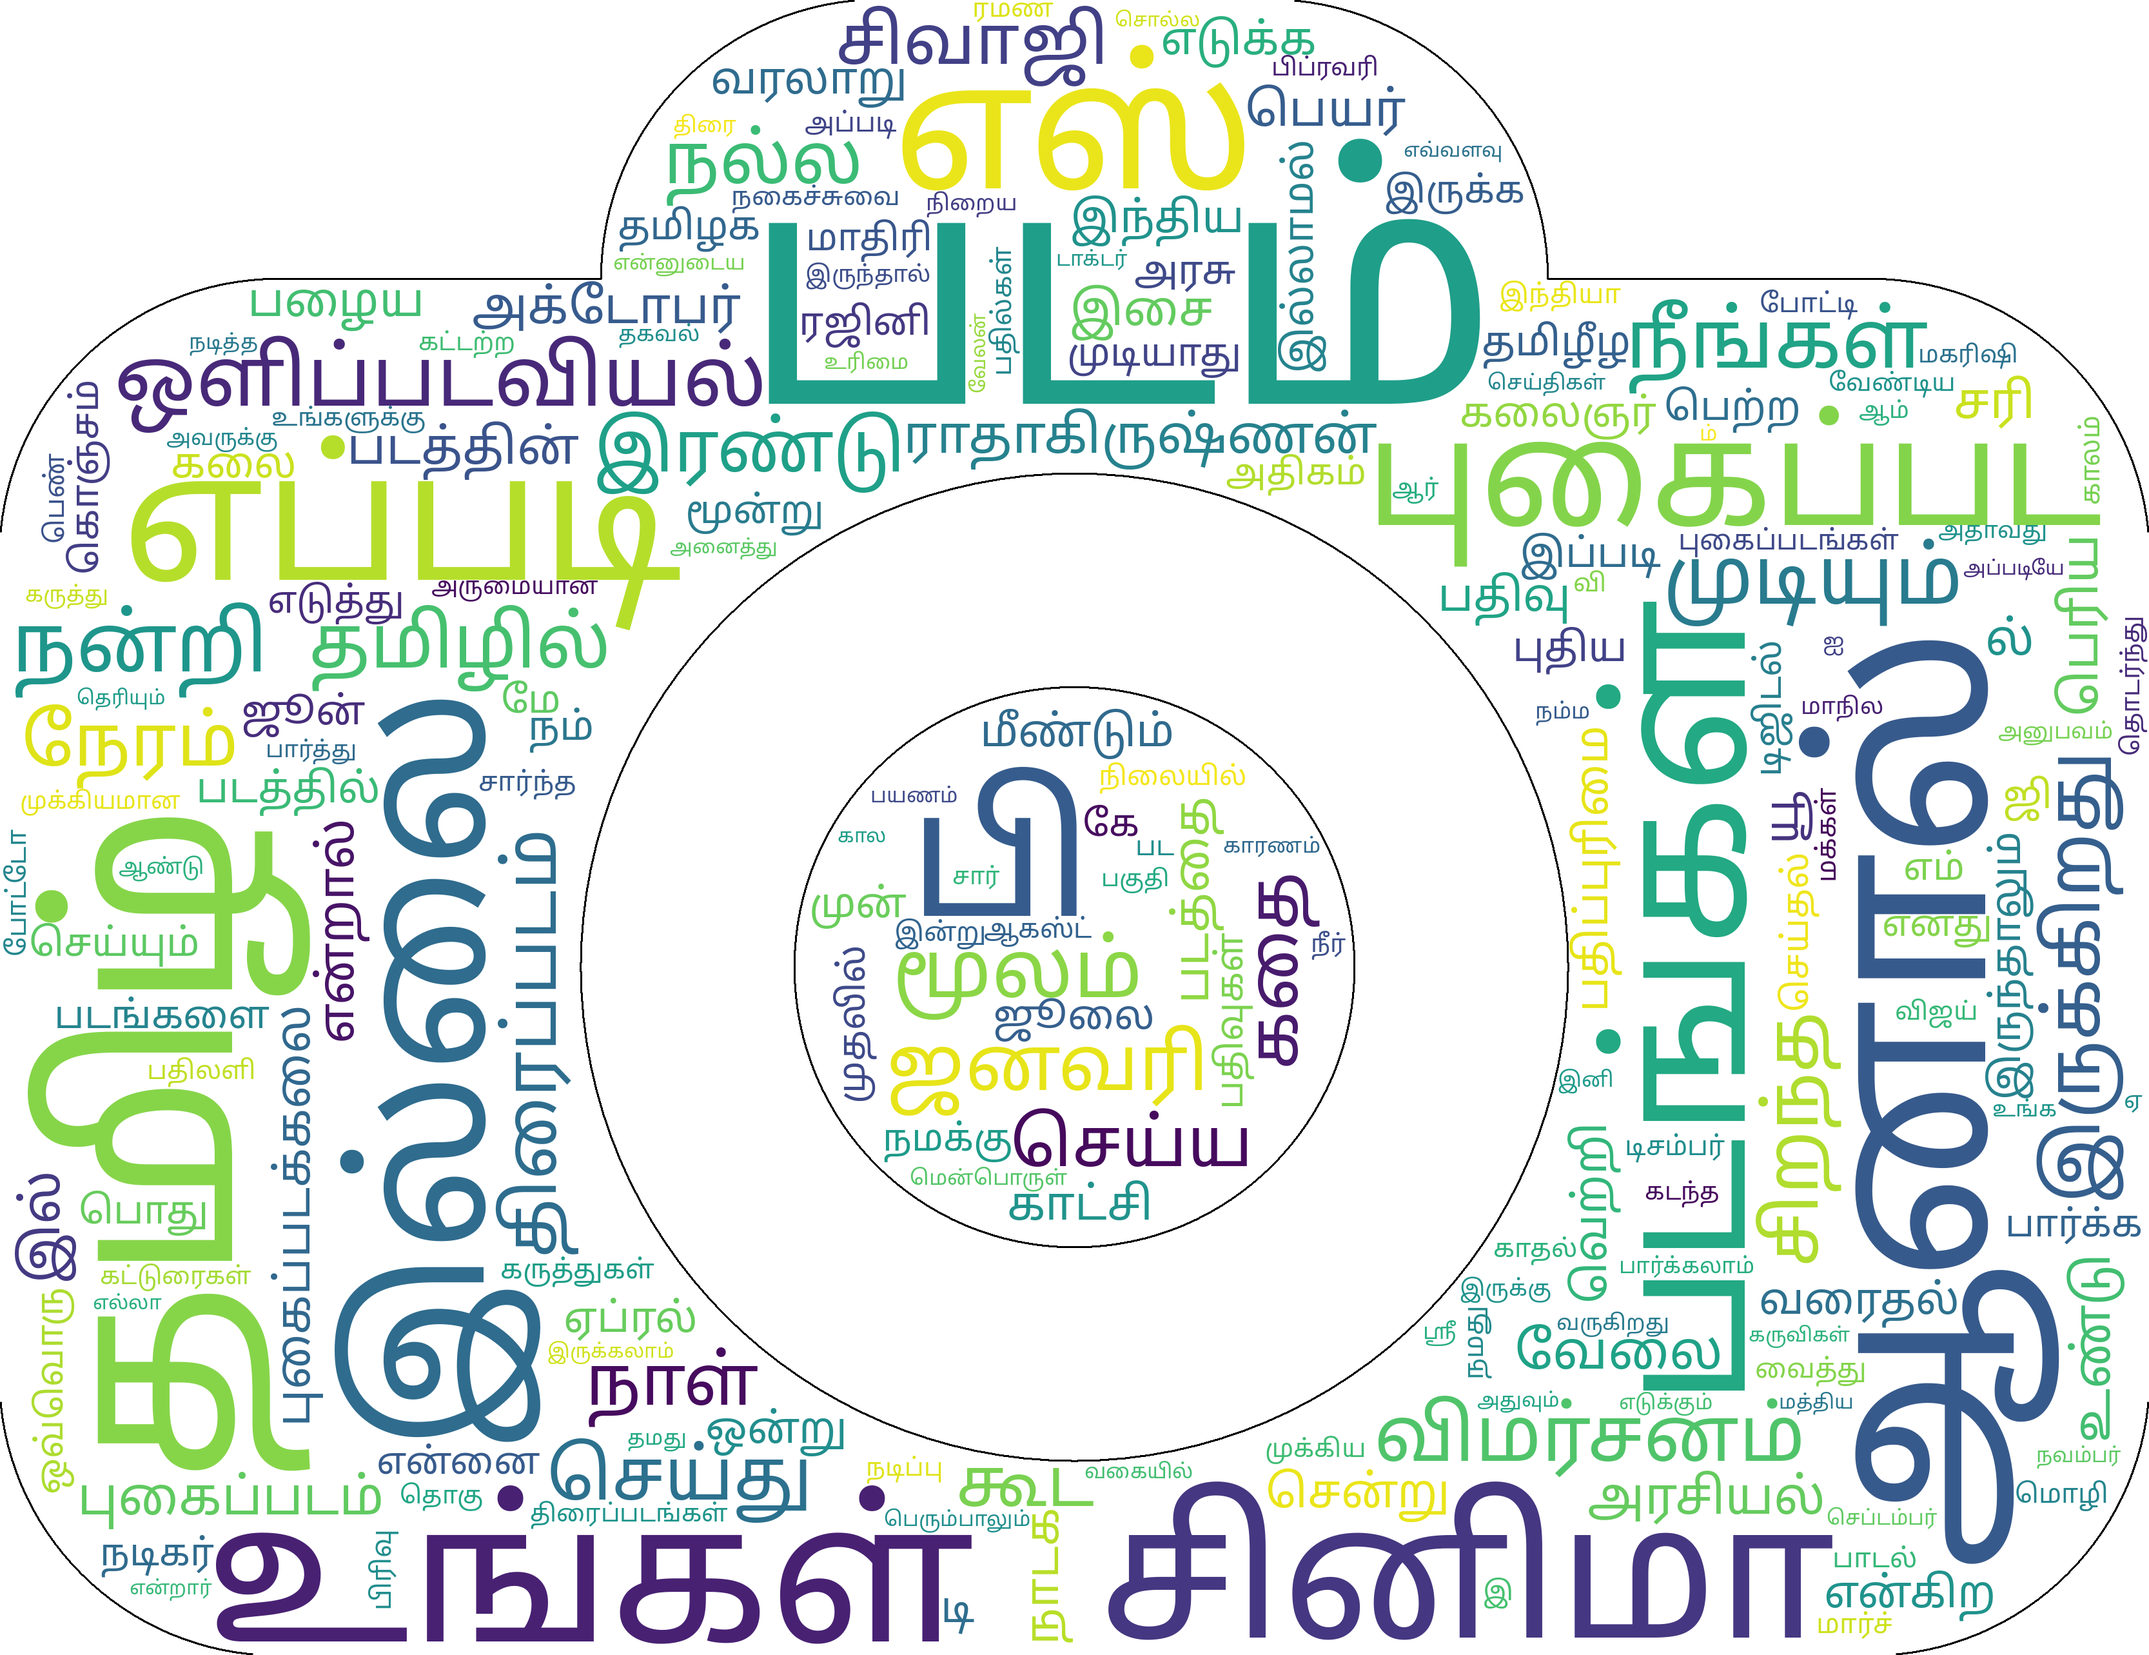
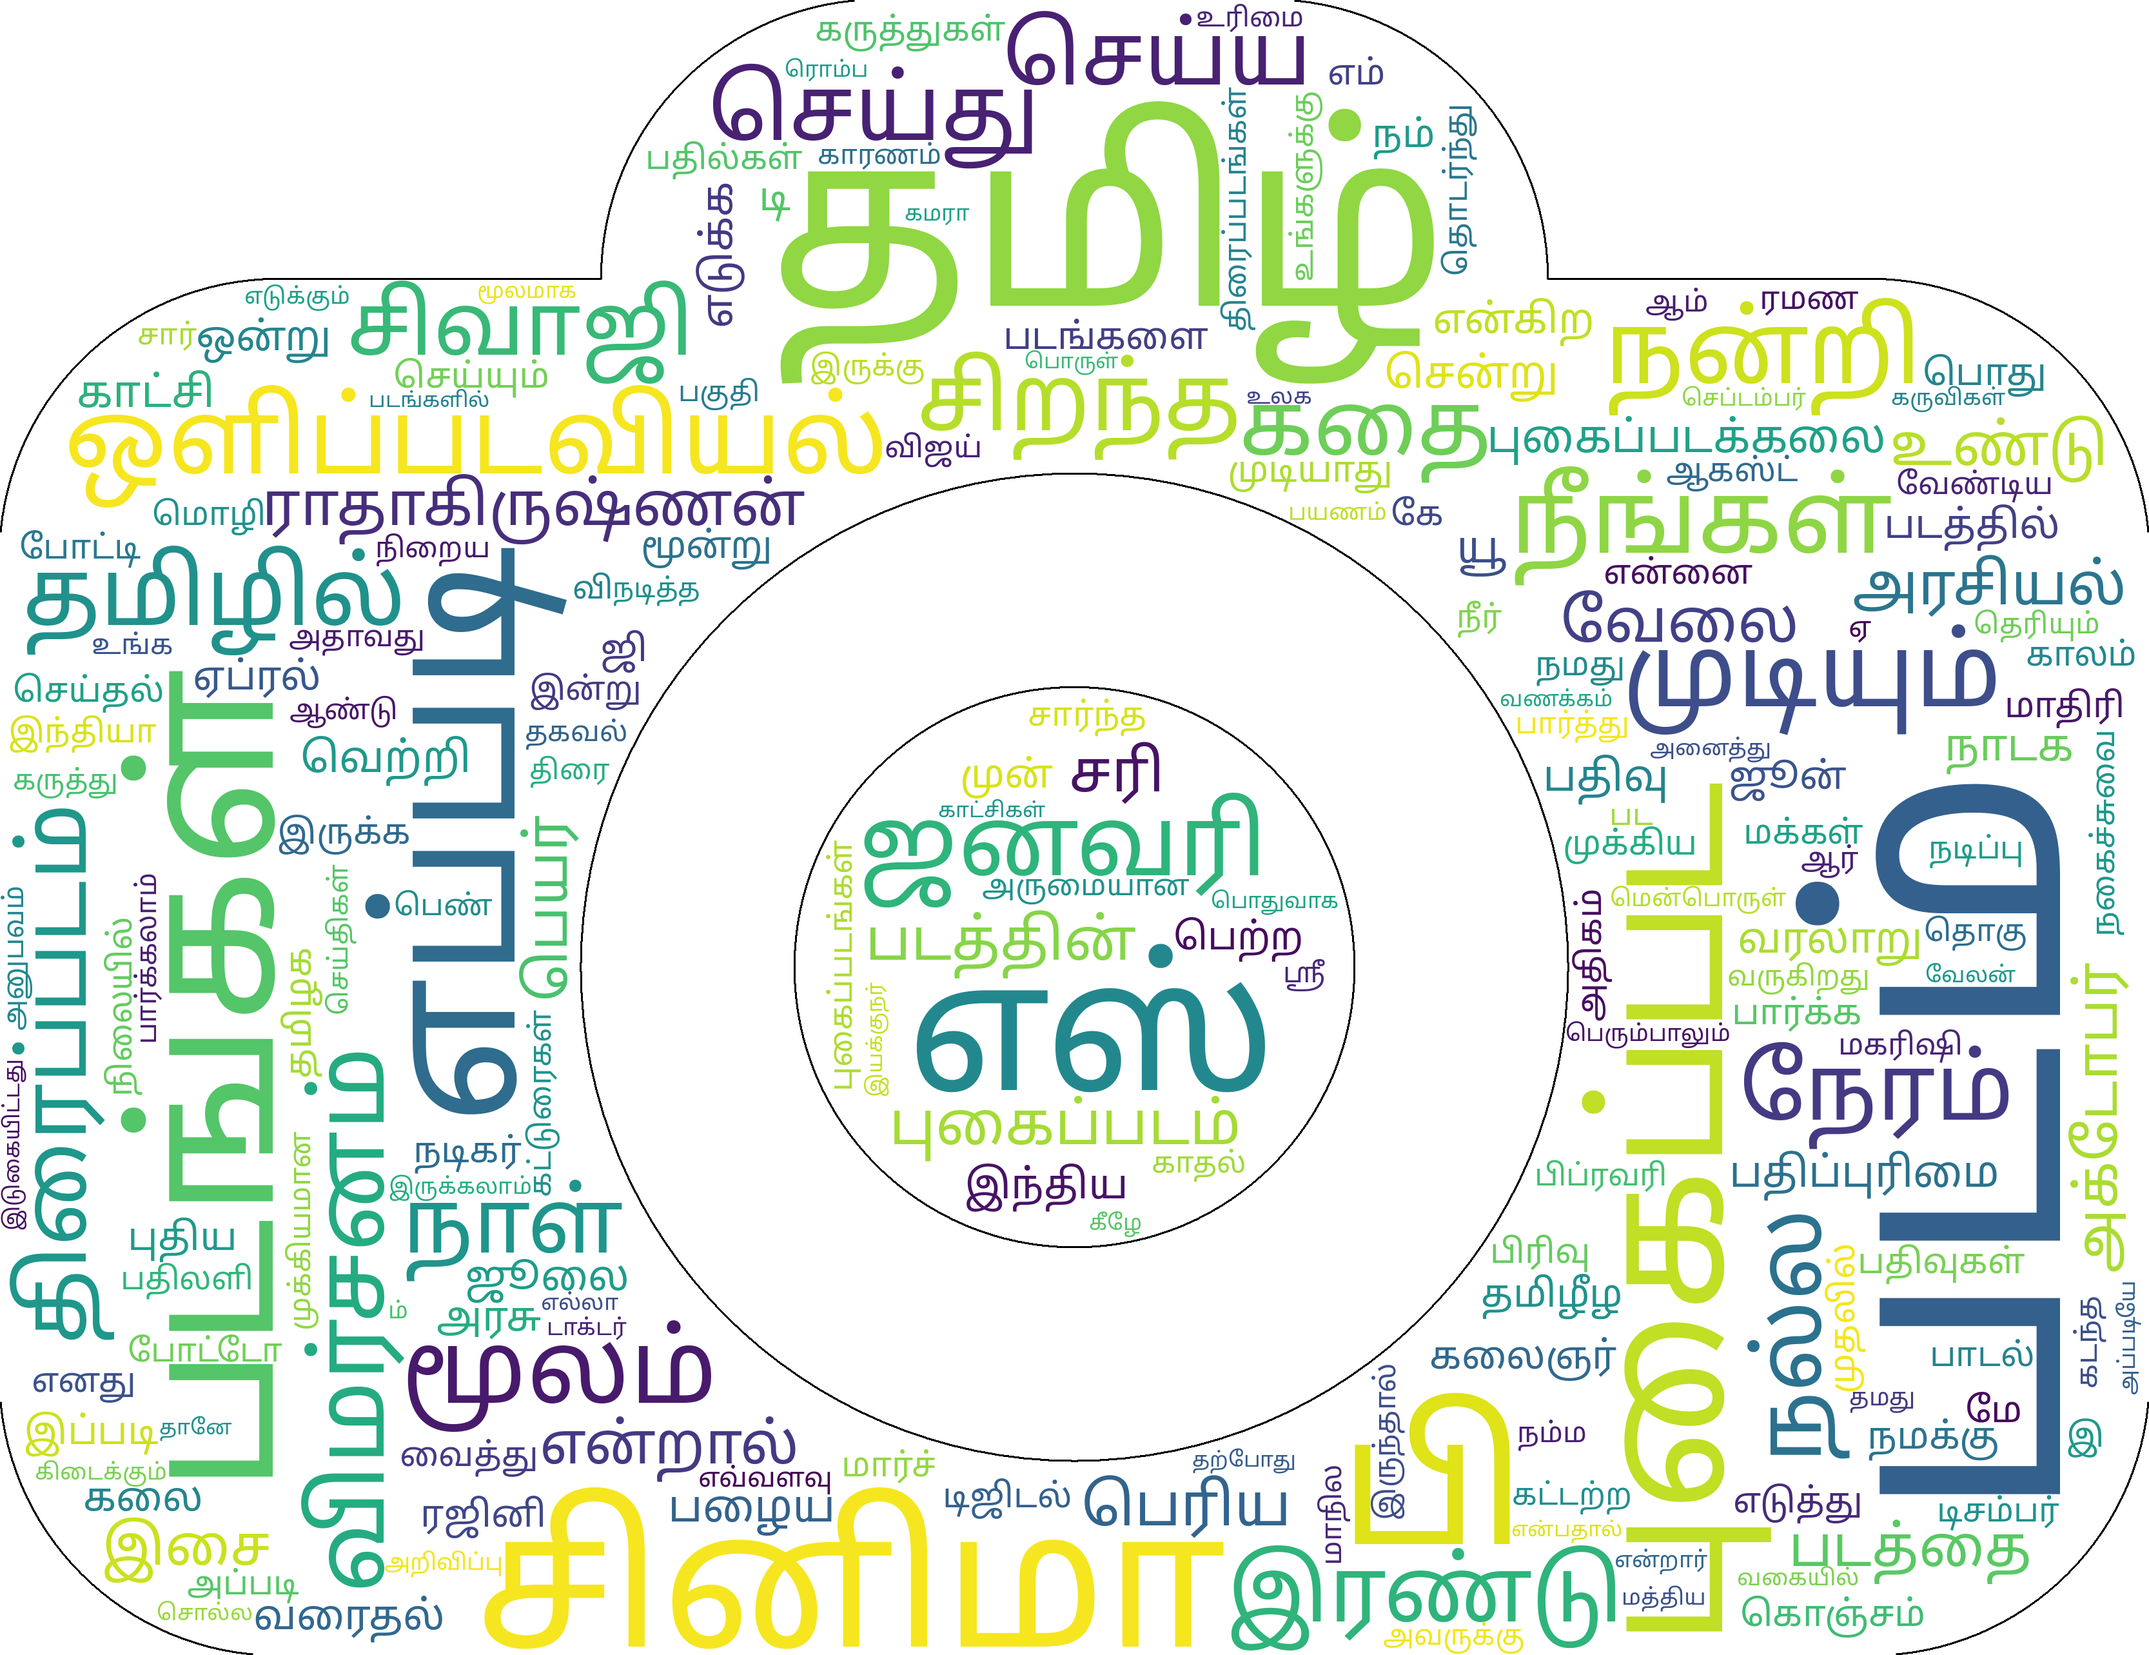
new nuage langtam + analyse langtam

diff --git a/pages/analyse.html b/pages/analyse.html
@@ -31,8 +31,12 @@
 
 				<p>Pour ce projet, chaque étudiant a sa propre langue qu'il a choisie. Nous avons cherché au moins cinquante URL valides pour chaque langue et les avions affichés dans un tableau. Pour la sélection des URL, nous avons cherché le mot et pris ceux qui apparaissaient directement. Puis, nous avions cherché le mot au singulier dans les différents domaines dans lequel il pourrait apparaitre afin d'observer ses différents usages et contextes.</p>
 
+</br>
+</br>
+
 
 	<h3>Analyse :</h3>
+
 
 	<h4>Pour le français :</h4>
 	<p>Au début de notre projet, nous avons eu comme hypothèse que nous aurons probablement les mêmes significations et le même mot identique pour les trois langues. Nous avons pu faire des constats en français.</p>
@@ -41,13 +45,155 @@
 
 <p>Lorsque nous avons fait les recherches du mot “image” sur le web, nous tombions davantage sur le sens littéral. Nous supposons que c’est parce qu'il est davantage  fréquent et que son utilisation est probablement la plus utilisée, notamment avec Google. Nous avons également fait des recherches sur d’autres moteurs de recherche comme Qwant et Yahoo afin de voir d’autres sens du mot image. Il fallait être précis pour rechercher les autres sens possibles du mot ciblé. Donc, par exemple, on a recherché image avec x domaine possible.</p>
 
+
+en tamoul, nous observons,.....
+
+Fr : nous affirmons notre hypothèse de départ pour le français. En effet, le mot image a des sens différents. Lors de nos recherches d’URLs, nous avons vu que le mot image avait principalement un premier sens littéral. Il désigne une représentation d’une chose ou d’une personne. D’après le dictionnaire en ligne Le Robert, il viendrait du latin “imago” qui signifierait une représentation visuelle. Le mot “image” est polysémique mais garde ses sens proches du premier sens littéral. En effet, ses autres sens se retrouvent par exemple, dans le droit à l’image, en psychologie avec l’image mentale, en sociologie avec l’image que renvoie une personne, dans le domaine de la photographie, des mathématiques, etc… Mais le mot va conserver son premier sens littéral : la représentation de quelque chose.
+</br>
+</br>
+Lorsque nous avons fait les recherches du mot “image” sur le web, nous tombions davantage sur le sens littéral. Nous supposons que c’est parce qu'il est davantage  fréquent et que son utilisation est probablement la plus utilisée, notamment avec Google. Nous avons également fait des recherches sur d’autres moteurs de recherche comme Qwant et Yahoo afin de voir d’autres sens du mot image. Il fallait être précis pour rechercher les autres sens possibles du mot ciblé. Donc, par exemple, on a recherché image avec x domaine possible.
+</br>
+</br>
+Avec le nuage de mot généré, il nous permet de voir les contextes où le mot “image” apparaît le plus souvent. Aussi appelé wordcloud en anglais, il visualise les mots qui gravitent autour du mot et nous permet d'interpréter ses contextes. Grâce à cet outil, il met en avant les mots les plus fréquents ou non de par leurs tailles et leurs positions.
+</br>
+</br>
+
 <p>Avec le nuage de mot généré, il nous permet de voir les contextes où le mot “image” apparaît le plus souvent. Aussi appelé wordcloud en anglais, il visualise les mots qui gravitent autour du mot et nous permet d'interpréter ses contextes. Grâce à cet outil, il met en avant les mots les plus fréquents ou non de par leurs tailles et leurs positions.
 
+
 Dans le nuage de mot français, on observe davantage que les contextes concernés sont ceux du domaine informatique. Les mots les plus mis en avant sont : “numériques”, “fichiers”, “générées”, par exemple. On peut supposer qu’aujourd’hui le domaine de l’IA est davantage au centre des recherches au quotidien, puisqu’on a de nombreux mots-clés qui lui sont associés. A la recherche du mot image, on suppose que ses sens sont plus “élargit” par rapport à l’actualité d’aujourd'hui.
-
+</br>
+</br>
 Ensuite, le domaine de la photographie ressort le plus également avec ses nombreux mots-clés qui lui sont associés.
-
+</br>
 On analyse que le mot ciblé est polysémique de par la variété de ses domaines. A la base on part d’une définition plutôt proche du sens littéral jusqu’à différents sens beaucoup plus abstraits.
+
+</br>
+</br>
+Le mot image est un nom qui peut avoir un complément de nom. Autour de lui, on trouve des noms qui le complètent, des adjectifs (beaucoup de qualificatifs), et parfois même des mots en anglais.<p>
+</br>
+</br>
+
+	<h4>Pour le Tamoul : </h4>
+	<p>
+Où et comment trouver "படம்" ?
+</br>
+Dans un premier temps, j'ai contacté des amis dont le tamoul est la langue maternelle : une amie parlant le tamoul sri lankais et des amis parlant le tamoul indien. Ils m'ont aidé à confirmer le sens de "படம்" c'est à dire image en tamoul.
+
+</br>
+</br>
+Je partais avec l'idée "படம்" avait deux sens :
+<ol>
+<li> une image peu importe le média </li>
+<li> une photo </li>
+</ol>
+
+</br>
+J'ai commencé mes rechers de manière classique, j'ai écrit "படம்" dans le moteur de recherche de firefox. Je suis tombée sur 3 types de contenus :  des blogs sur la photographie ; des blogs sur le cinéma.
+J'ai donc ainsi découvert que "படம்" avait un troisème sens : film.
+Je l'ai confirmé auprès de mes amis tamoulophone.
+J'utilisais crtl + f pour vérifier que le mot était bien présent sur le site.
+Au final, j'ai rencontré "படம்" dans tous ces sens :
+
+<ol>
+<li>une image</li>
+<li>une photo</li>
+<li>un film</li>
+<li>un tableau</li>
+</ol>
+Le type de site que j'ai ciblé était princiapalement les blogs.
+
+</br>
+</br>
+<h4>Comment est employé le mot image en tamoul ?</h4>
+</br>
+Dans le tableau :
+</br>
+Si l'on s'appuie et focalise sur notre tableau, on peut constater que le mot tamoul a en général peu d'occurence dans les sites pour le nombre total mot. On peut expliquer cela par le fait que le concept d'image en tamoul prend vie surtout dans un contexte. Pour que le mot image est le sens véhiculé, le thème doit être clairement défini. Il existe deux cas, le premier est celui où les sites où l'on se concentre sur tout ce qui englobe l'image et le second où le mot permet de parler d'un autre concept.
+
+</br>
+</br>
+Dans le nuage de mot :
+</br>
+Rappelons le, image est un mot très polysémique en tamoul, on s'attend donc à avoir probablement un nuage très variés. Notre nuage nous donne une information très importante sur l'emploi du mot.
+
+Le mot le plus grand "படம்" mise à part lui, on peut également relevé un autre quelque peu surprenant "கமிழ்" (tamil), par ailleurs on lit aussi  "தமிழக" (tamil nadu), "இந்திய" (indien), ce qui laisse penser que pour les locuteurs du tamoul, image est associé à leur culture ou un élément de leur culture.
+
+Un autre mot central de notre curpus est "கினிமா" (cinéma) et si l'on observe les autres mots qui ressort mais un peu moins fréquemment on remarque quelque chose d'interessant :ils font parti du champ lexicale de cinéma. On peut citer; "பதிப்புரிமை" (droit d’auteur), "நாடக" (dramatique (registre)), "சிறந்த" (le meilleur) , "புதிய" (nouveau), "காட்சி" (spectacle/scène), "பழைய" (ancien). Nous avons des adjectifs permettant de décrire le mot "படம்", ou des noms qui portent sur le mot.
+
+
+Et nous pouvons faire la même analyse avec un autre des mots centrales "படங்கள்" (photo), car si on relève les autres mots un peu moins fréquent on constate que nous avons des mots qui concernent le champs l'exicale de l'utilisation de l'appareil photo/photo comme "முலம்" (à travers), "பதிவு" (enregistrement), "புகைப்பட" (photographié) ou "ஒளிப்படவியல்"" (photographie).
+
+
+D'autres mots portent sur les metadonées de "image" ou de ce qu'on peut en faire tel que : "ராதாகிருக்ஷ்ணன்" (nom propre ?), "என்கிற" (nommé), "பெயர்" (Nom), "பெண்" (fille), "செய்தல்" (faire), "உண்டு" (avoir)".
+
+Un des mot que j'ai relevé et qui pourrait correspondre au sens "peinture/tableau" est "கதை" (histoire).
+
+Ce que ce nuage de mot nous permet de comprendre est que en tamoul, malgré la polysémie du mot, les usages les plus frequents ont pour signification "image", "film" et "photo".
+
+</br>
+</br>
+Que dit le PALS :
+</br>
+
+L'analyse du PALS confirme notre conclusion du nuage de mot et est encore plus précis.
+Le sens le plus utilisé par les locuteurs du tamoul est film.
+</br>
+</br>
+
+<table>
+    <caption>Analyse PALS-tam</caption>
+    <thead>
+        <tr>
+            <th>Token</th>
+            <th>Corpus size</th>
+            <th>All contexts size</th>
+            <th>Frequency</th>
+            <th>Co-frequency</th>
+            <th>Specificity</th>
+        </tr>
+    </thead>
+    <tbody>
+        <tr><td>பெற்ற</td><td>109600</td><td>2670</td><td>47</td><td>12</td><td>9.03</td></tr>
+        <tr><td>படம்</td><td>109600</td><td>2670</td><td>262</td><td>25</td><td>8.14</td></tr>
+        <tr><td>உடனே</td><td>109600</td><td>2670</td><td>17</td><td>7</td><td>7.11</td></tr>
+        <tr><td>நீங்கள்</td><td>109600</td><td>2670</td><td>83</td><td>13</td><td>7.01</td></tr>
+        <tr><td>முதன்</td><td>109600</td><td>2670</td><td>20</td><td>7</td><td>6.55</td></tr>
+        <tr><td>முதலாக</td><td>109600</td><td>2670</td><td>20</td><td>7</td><td>6.55</td></tr>
+        <tr><td>தொடங்குன</td><td>109600</td><td>2670</td><td>4</td><td>4</td><td>6.45</td></tr>
+        <tr><td>ஹிட்..</td><td>109600</td><td>2670</td><td>4</td><td>4</td><td>6.45</td></tr>
+        <tr><td>எடுத்து</td><td>109600</td><td>2670</td><td>43</td><td>9</td><td>6.14</td></tr>
+        <tr><td>புகழ்</td><td>109600</td><td>2670</td><td>15</td><td>6</td><td>6.08</td></tr>
+    </tbody>
+</table>
+
+</br>
+</br>
+
+En effet, même si le mot le plus fréquent dans notre corpus est "படம்", le mot avec le plus de Specificity est "பெற்ற" et il signifie obtenir (comme obtenir un prix). En toute connaissance de mes liens, je sais qu'il est utilisé dans le contexte de film renommé. Comme nous pouvons le voir avec les mots,  "ஹிட்" (hit), "எடுத்து" (réaliser) et "புகழ்" (renommé), les autres mots du top 10 sont du champ lexical du film.
+
+
+Le PALS vient en réalité contredire ce que nous avons dit quand à l'interprétation des occurences ! Bien que le mot "image" soit peu présent quand à la quantité de mot en tout, il est le plus fréquent dans le corpus ! Donc très signification. On peut dire que tous les autres mots gravitent autour de lui.
+
+</br>
+</br>
+Dans le bigramme :
+</br>
+J'ai comparé le bigramme des URLS de 1 à 10 + l'URL 50.
+Une chose en ressort en genérale les bigrammes les plus fréquents sont la combinaison N+v dans des exemples comme " படம் தொடங்குன"(film commence) ou "படம் முடிவடைகிறது" (film se termine). Mais aussi N+Nom popre "படம் கவி" (Film de Kavi).
+
+Dans l'ensemble du corps le bigramme le plus fréquent est "படம் தொடங்குன" , soit 'film' et 'commencer' . De plus les bigrammes les plus fréquents par corpus contiennent souvent le mot  "படம்".
+</br>
+</br>
+
+Pour le Tamoul, nous pouvons conclure en disant que si l'on a pas lu le contenu des pages web, on ne pourra pas devinner que le mot signifie également tableau bien qu'on en trouve quelques indices  dans notre travail. Mais l'hypothèse concernant la polysémie du mot en tamoul est bien validé.</p>
+
+</br>
+</br>
+
+
+	<h4>Pour le vietnamien : <h4>
+
 
 Le mot image est un nom qui peut avoir un complément de nom. Autour de lui, on trouve des noms qui le complètent, des adjectifs (beaucoup de qualificatifs), et parfois même des mots en anglais.</p>
 
@@ -60,6 +206,9 @@ Le mot image est un nom qui peut avoir un complément de nom. Autour de lui, on 
 
 
 
+
+</br>
+</br>
 	<h3>Conclusion</h3>
 <p>Dans le nuage de mot, les mots qui ressortent le plus dépendant des url recueillies. tout dépend des urls choisies. Par exemple, si on choisi majoritairement d’urls dans le domaine de la psychologie, le résultat du nuage de mot ne sera pas entièrement représentatif,  mais il permet d’identifier à première vu, les contextes du mot image qui apparaissent le plus.</p>
 
